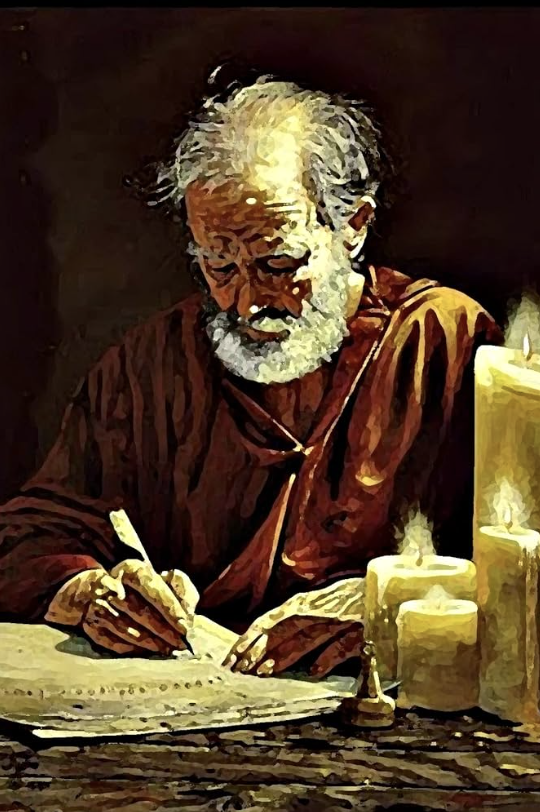
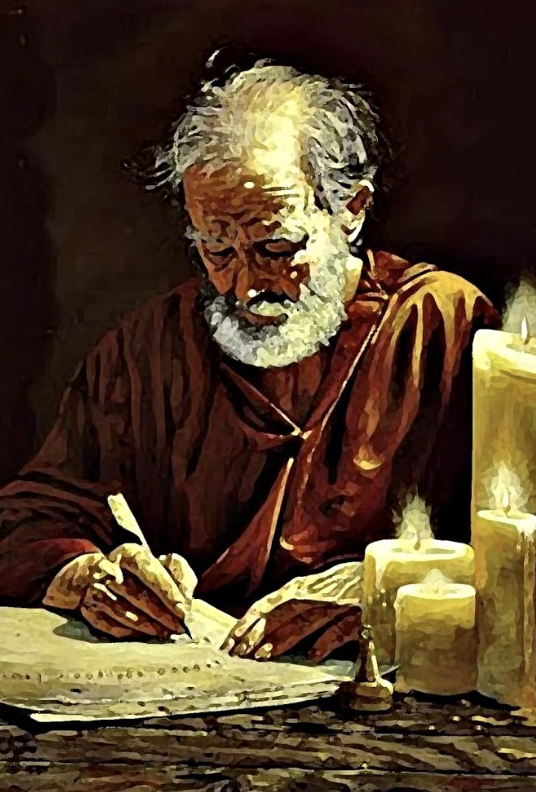
Add files via upload

diff --git a/index.html b/index.html
@@ -24,9 +24,36 @@
 
   <main>
     <article class="blog-entry">
-  
-      
-  
+        <section class="reading-section">
+
+            <p>
+              Reading and writing are gifts that allow us to slow down, think carefully, and meditate on truth.
+              Throughout Scripture, God consistently works through words: spoken, remembered, written,
+              and preserved. The prophets wrote. The apostles wrote. The Psalms were written prayers
+              and songs poured out before God. Even today, faithful reading and writing remain ways
+              to reflect, learn, teach, and remember what the Lord has done.
+            </p>
+          
+            <p class="scripture">
+              For this reason I remind you to kindle afresh the gift of God which is in you
+              through the laying on of my hands.<br>
+              2 Timothy 1:6
+            </p>
+          
+            <p>
+              There is value in stirring up what God has placed within us rather than allowing it
+              to remain dormant. Writing can become one small way of doing that. Not for self-glory,
+              nor for the appearance of wisdom, but to pursue truth honestly, to sharpen understanding,
+              and to leave room for reflection in a distracted world.
+            </p>
+          
+            <p class="scripture">
+              Let the word of Christ richly dwell within you, with all wisdom teaching
+              and admonishing one another.<br>
+              Colossians 3:16a
+            </p>
+          
+          </section>
     </article>
   </main>
 

diff --git a/style.css b/style.css
@@ -1,6 +1,6 @@
 body {
-    background-color: #111;
-    color: #f5f5f5;
+    background-color: #ffffff;
+    color: #111111;
     font-family: Georgia, serif;
     line-height: 1.8;
     max-width: 800px;
@@ -18,7 +18,7 @@ body {
   }
   
   .subtitle {
-    color: #b0b0b0;
+    color: #555;
     margin-bottom: 30px;
   }
   
@@ -27,7 +27,7 @@ body {
   }
   
   nav a {
-    color: #f5f5f5;
+    color: #111111;
     text-decoration: none;
     margin-right: 20px;
     font-size: 1rem;
@@ -35,6 +35,12 @@ body {
   
   nav a:hover {
     opacity: 0.7;
+  }
+  
+  .blog-post p,
+  .scripture,
+  footer {
+    color: #444;
   }
   
   .hero {
@@ -100,8 +106,22 @@ body {
   }
   
   .about-image img {
-    width: 100%;
-    max-width: 700px;
-    border-radius: 6px;
+    width: 140px;
+    height: auto;
+    border-radius: 8px;
     opacity: 0.95;
+  }
+
+  .reading-section {
+    margin-top: 60px;
+  }
+  
+  .reading-section p {
+    margin-bottom: 28px;
+  }
+  
+  .scripture {
+    text-align: center;
+    font-style: italic;
+    color: #d6d6d6;
   }
